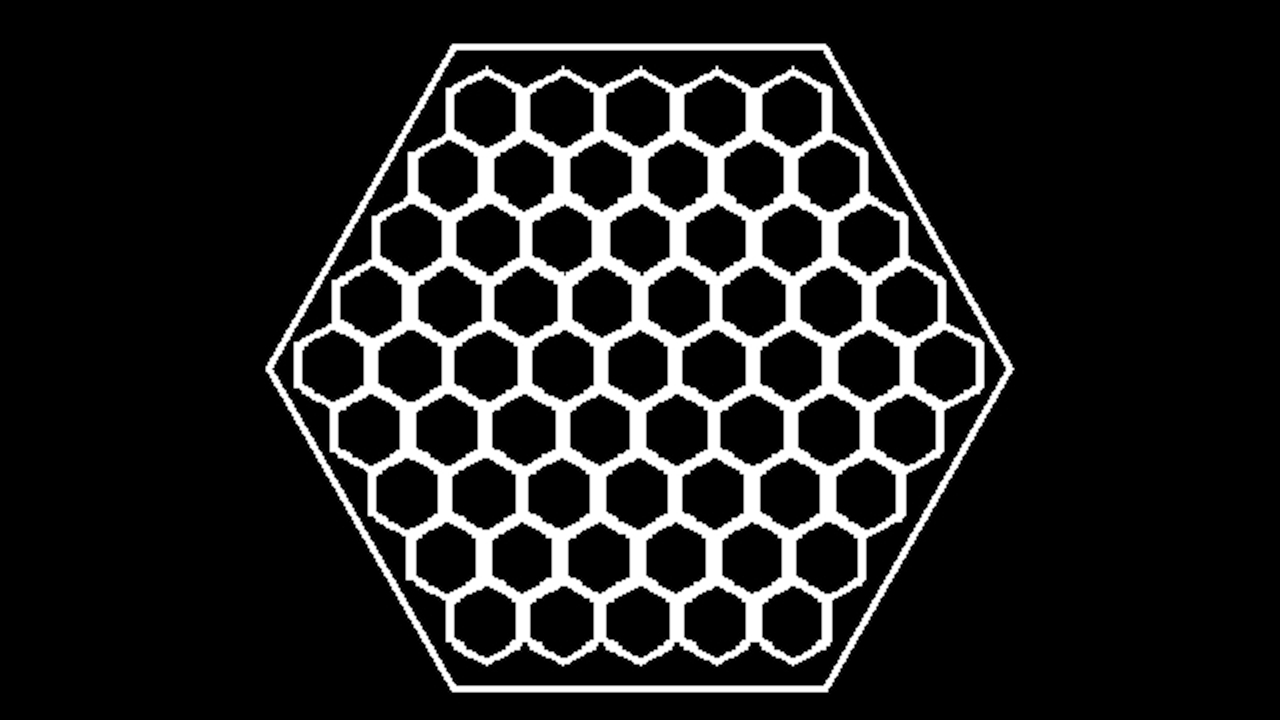
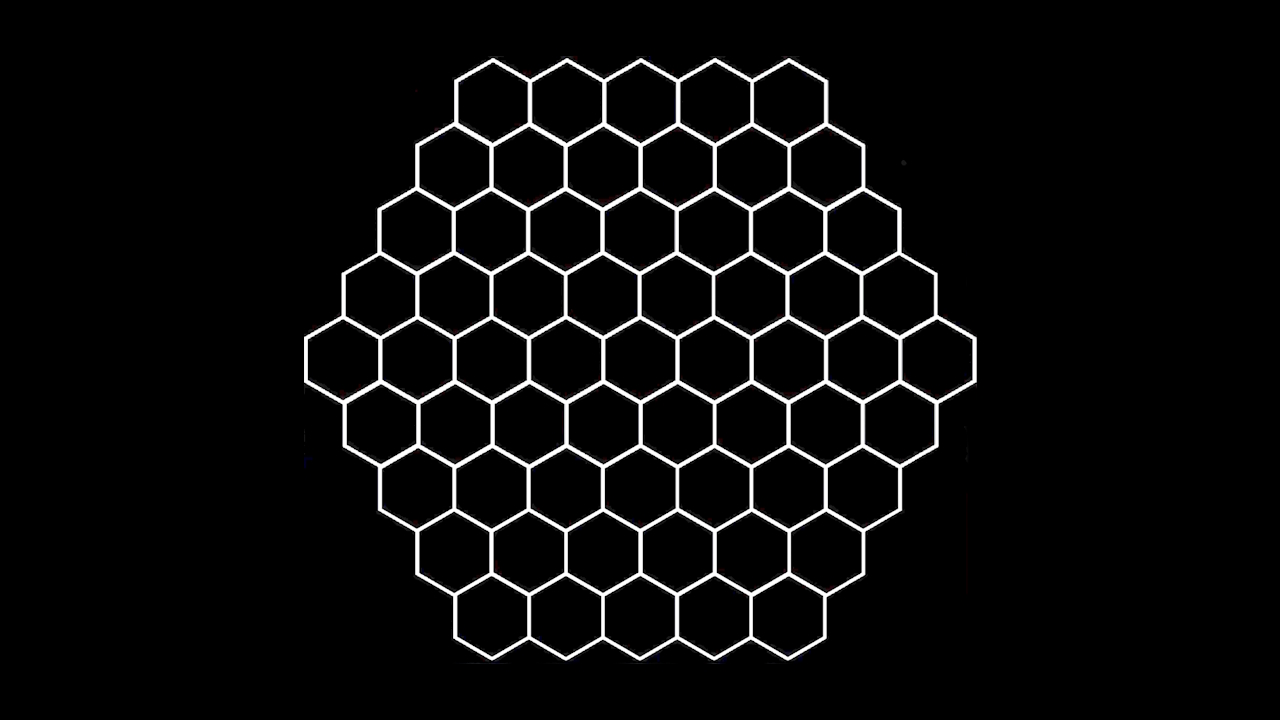
new background img

Changed region(s): [[0.1875, 0.0611, 0.8125, 0.9778]]

diff --git a/Main/GameScreen.java b/Main/GameScreen.java
@@ -4,9 +4,7 @@ import Inputs.MouseInputs;
 
 import javax.swing.*;
 import java.awt.*;
-import java.lang.reflect.Array;
 import java.util.ArrayList;
-import java.util.Arrays;
 
 public class GameScreen extends JPanel {
     private Game game;
@@ -18,29 +16,17 @@ public class GameScreen extends JPanel {
         mouseInputs = new MouseInputs(this);
         this.game = game;
         setPreferredSize(new Dimension(1280,720)); // setting the resolution of the game
-        bgImage = (new ImageIcon("./res/blackboxbgimagesmallver.jpg")).getImage(); // loads the bg image for the game
+        bgImage = (new ImageIcon("./res/BBDE35F2-A057-46C0-9171-EA93FC0794D1.jpeg")).getImage(); // loads the bg image for the game
         addMouseListener(mouseInputs);
         addMouseMotionListener(mouseInputs);
 
+//        this.setLayout(null);
+//        buttonsList = new ArrayList<JButton>();
+//        addSpotButtons(this);
+//        for (JButton button : buttonsList) {
+//            this.add(button);
+//        }
 
-        this.setLayout(null);
-        buttonsList = new ArrayList<JButton>();
-        addSpotButtons(this);
-        for (JButton button : buttonsList) {
-            this.add(button);
-        }
-
-//        JButton button = new JButton(); // creates a new button
-//        button.setBounds(640, 360, 50,50); // sets location and size of the button
-//        button.setText("1"); // sets the text to be displayed on the button
-//        button.setFocusable(false); // removes weird outline around text on button
-//        button.setFont(new Font("Comic Sans", 0, 14)); // changes font
-//        button.addActionListener(e -> { // the action to be performed once the button is clicked
-//            System.out.println("Button was clicked");
-//            button.setText("Button clicked.");
-//            button.setEnabled(false); // disables the button once pressed
-//        });
-//        this.add(button); // adding the button to the screen
     }
 
     private void addSpotButtons(GameScreen gameScreen) {
@@ -71,7 +57,7 @@ public class GameScreen extends JPanel {
     @Override
     public void paintComponent(Graphics g) {
         super.paintComponent(g);
-        g.drawImage(bgImage, 0, 0, null);
+            g.drawImage(bgImage,0,0,1280,720,null);
     }
 
     public Game getGame() { return game; } // accessor

diff --git a/Main/GameWindow.java b/Main/GameWindow.java
@@ -1,8 +1,6 @@
 package Main;
 
 import javax.swing.*;
-import java.awt.event.WindowEvent;
-import java.awt.event.WindowFocusListener;
 
 public class GameWindow {
     private JFrame gameWindow;
@@ -19,7 +17,5 @@ public class GameWindow {
         gameWindow.setVisible(true); // visibility option to actually see the window
         gameWindow.setLayout(null);
         gameWindow.setIconImage((new ImageIcon("./res/icon.png")).getImage()); // changes the window icon to a custom image
-
-        System.out.println("test2");
     }
 }
